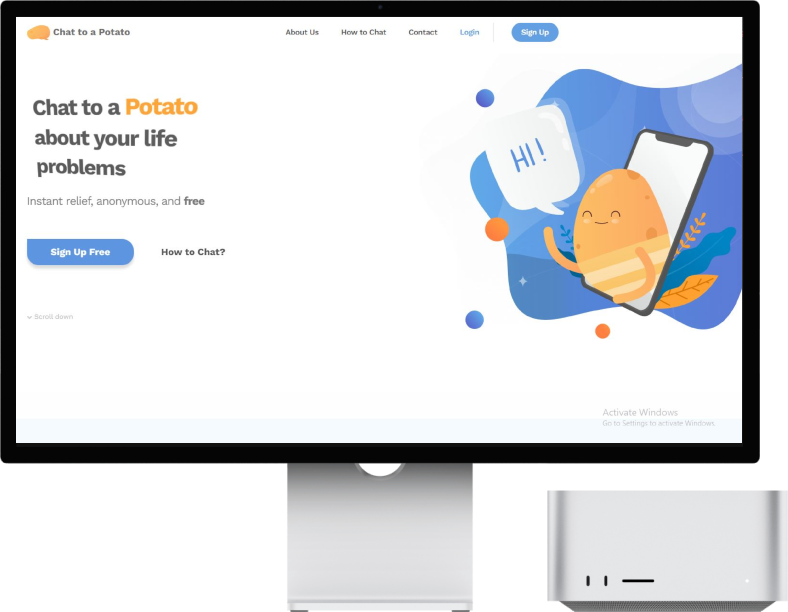
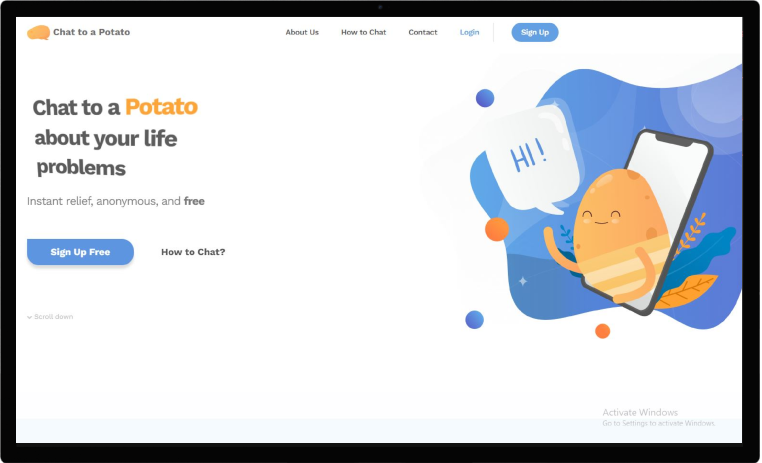
Time line section [ADD]

diff --git a/src/components/Overview.tsx b/src/components/Overview.tsx
@@ -1,0 +1,40 @@
+import { FC } from "react";
+
+
+const OverView: FC = () => {
+    return (
+        <div className="relative h-ful overflow-hidden">
+            <div className="lg:px-72">
+                <div className="font-bold text-[#eb5553]  text-h3 lg:text-h2 " id="projects">Overview</div>
+                <div className="font-medium mt-4 text-h3 lg:text-h4 " id="projects">
+                    <p>
+                        The client approached us with a web application called CollegeCat, expressing the desire to integrate OpenAI and ChatGPT into their educational tool aimed at making college life easier for students. The tool included features such as essay writing assistance, help with complex math problems, a chat-based layout for asking general knowledge questions, an AI-based rephrase similar to Quilbot, and an AI Detector to aid in rephrasing homework or essays.
+                    </p>
+                    <br />
+                    <p>
+                        To bring this vision to life, we conducted extensive research with the client’s team, examining competitors in the field. After gathering insights, we created designs that the client enthusiastically approved. Subsequently, we commenced the development process.
+                    </p>
+                    <br />
+                    <p>
+                        The technical backbone of College Cat utilizes React.js | Next.js, Nest.js, MySQL, and AWS ensuring a robust, scalable, and secure platform for an optimal learning experience.
+                    </p>
+                </div>
+            </div>
+            <div className="flex justify-end lg:-mr-10 mt-10">
+                <img src="images/chattopotato/OverView.png" className="w-1/2" alt="Chattopotatologo" />
+            </div>
+            <div className="lg:space-y-16 mt-6">
+                <div className="lg:px-72 flex flex-row lg:gap-x-20">
+                    <div className="font-bold text-[#eb5553]  text-h3" id="projects">Problem</div>
+                    <div className="font-medium text- lg:text-h4 lg:mt-2 text-paraColor md:text-paraGraphMedium">The diverse job market lacked a user-friendly platform for efficient connections between those needing assistance and those with the right skills. Burj aims to simplify this process.</div>
+                </div>
+                <div className="lg:px-72 flex flex-row lg:gap-x-20">
+                    <div className="font-bold text-[#eb5553]  text-h3" id="projects">Solution</div>
+                    <div className="font-medium text-h3 lg:text-h4 lg:mt-2 text-paraColor md:text-paraGraphMedium">The diverse job market lacked a user-friendly platform for efficient connections between those needing assistance and those with the right skills. Burj aims to simplify this process.</div>
+                </div>
+            </div>
+        </div>
+    );
+};
+
+export default OverView;

diff --git a/pages/chattopotato/index.tsx b/pages/chattopotato/index.tsx
@@ -1,0 +1,70 @@
+import { FC, useMemo } from "react";
+import Project from "../../src/components/Project";
+
+
+import {
+  BistroChatManager,
+  Firebase,
+  Javascript,
+  Nextjs,
+  React,
+  Square,
+  Typescript,
+  Monogdb,
+  Nodejs,
+  Bistrochat,
+  ChatToPotato,
+} from "../../src/icons";
+import OverView from "../../src/components/Overview";
+
+import bgI from '../../public/images/Background.png'
+import TimelineofProject from "../../src/components/TimelineofProject";
+import BrandIdentity from "../../src/components/BrandIdentity";
+
+
+
+
+const Portfolio: FC = () => {
+  const styling = {
+    backgroundImage: `url('images/Background.png')`,
+    width: "100%",
+    height: "100%",
+    backgroundPosition: 'center',
+    backgroundSize: 'cover',
+  }
+
+  return (
+    <div style={styling}>
+      <div className="lg:px-72">
+        <div className="my-2 flex  lg:my-[50px]  lg:px-0 px-4 justify-between ">
+          <ChatToPotato key={Math.random().toFixed(3)} width={40} />
+          <div className="font-bold text-center text-[#fea130] text-h4">2023{" "}</div>
+        </div>
+        <div className='mt-4 flex flex-col md:flex-row md:justify-center md:space-y-0 md:space-x-4 lg:space-x-0  items-center'>
+          <img src="images/chattopotato/Chattopotatologo.png" alt="Chattopotatologo" />
+        </div>
+        <div className="my-2 flex  lg:my-[50px]  justify-between lg:px-0 px-4  ">
+          <div>
+            <div className="font-bold text-[#fea130] text-h4 ">Our Role</div>
+            <div className="font-bold  text-[#629fe3] text-h4">Development{" "}</div>
+          </div>
+          <div>
+            <div className="font-bold text-[#fea130] text-h4 md:text-right">Project</div>
+            <div className="font-bold  text-[#629fe3]	black text-h4">Chat to a Potato{" "}</div>
+          </div>
+        </div>
+      </div>
+      <div>
+        <OverView />
+      </div>
+      <div>
+        <TimelineofProject />
+      </div>
+      <div>
+        <BrandIdentity />
+      </div>
+    </div>
+  );
+};
+
+export default Portfolio;

diff --git a/src/components/BrandIdentity.tsx b/src/components/BrandIdentity.tsx
@@ -1,0 +1,25 @@
+import { FC } from "react";
+import { ChatToPotato } from "../icons";
+
+
+const BrandIdentity: FC = () => {
+    return (
+        <div className="h-ful lg:px-72 py-28">
+            <div>
+                <div className="font-bold text-[#eb5553]  text-h4 lg:text-h2">Brand Identity</div>
+                <div className="font-medium text- lg:text-h4 lg:mt-2 text-paraColor md:text-paraGraphMedium">College Cat positions itself as an innovative academic partner, utilizing cutting-edge AI to provide efficient, transparent, and globally accessible educational support.</div>
+            </div>
+            <div className="lg:h-10 flex flex-row justify-between my-10">
+                <div className="font-bold text-[#eb5553]  text-h4 lg:text-bodyTitleBig" >Logo</div>
+                <div className="h-1/2 border-b-2  border-b-[#fea130] w-11/12" />
+            </div>
+            <div>
+                <div>
+                    <ChatToPotato key={Math.random().toFixed(3)} width={40} />
+                </div>
+            </div>
+        </div>
+    );
+};
+
+export default BrandIdentity;

diff --git a/src/components/navbar.tsx b/src/components/navbar.tsx
@@ -23,7 +23,7 @@ const Navbar: FC = () => {
         <div className="flex items-center justify-center h-[80px] lg:h-auto px-3">
           <div className="flex flex-1 flex-row lg:flex-none">
             {/* <img src="/images/logo1.png" alt="logo" /> */}
-            <p className="ml-2 text-h3 font-semibold"><span className="text-h4 align-middle border-black border-4 border-black	 rounded-full px-1 py-1.5">MS</span> Muzzammil Shah</p>
+            <p className="ml-2 text-h4 lg:text-h2 font-semibold"><span className="text-h4 align-middle border-black border-4 border-black	 rounded-full px-1 py-1.5">MS</span> Muzzammil Shah</p>
           </div>
 
           <div className="hidden lg:flex lg:flex-1 lg:justify-center">

diff --git a/src/components/Project.tsx b/src/components/Project.tsx
@@ -38,7 +38,7 @@ const Project: FC<ProjectProps> = ({ title, images, description, type, role, ski
       <div className="lg:max-w-lg">
         <div className="hidden mb-2 lg:flex text-h2">{title}</div>
         <div className="hidden mb-2 lg:flex text-h2">{icon}</div>
-        <div className="mb-4 tracking-wide lg:w-4/5 xl:w-full">{description}</div>
+        <div className="mb-4 container text-justify text-paraColor md:text-paraGraphMedium lg:text-start lg:tracking-wide lg:w-4/5 xl:w-full">{description}</div>
 
         <div className="grid grid-cols-2 mb-5">
           <div className="font-semibold mb-2">Type</div>

diff --git a/src/components/TimelineofProject.tsx b/src/components/TimelineofProject.tsx
@@ -1,0 +1,18 @@
+import { FC } from "react";
+
+
+const TimelineofProject: FC = () => {
+    return (
+        <div className="h-ful mt-24 lg:px-72">
+            <div className="my-20">
+                <div className="font-bold text-[#eb5553]  text-h3 lg:text-h2 ">Timeline of Project</div>
+                <div className="flex justify-center mt-10">
+                    <img src="images/chattopotato/timeperiod.jpg" alt="Chattopotatologo" />
+                </div>
+            </div>
+            
+        </div>
+    );
+};
+
+export default TimelineofProject;

diff --git a/tailwind.config.js b/tailwind.config.js
@@ -55,6 +55,7 @@ module.exports = {
       bermuda: "#78dcca",
       primary: "#1d53ff",
       paraColor: "#001455",
+      black: "#00000",
     },
     variants: {
       extend: {},
